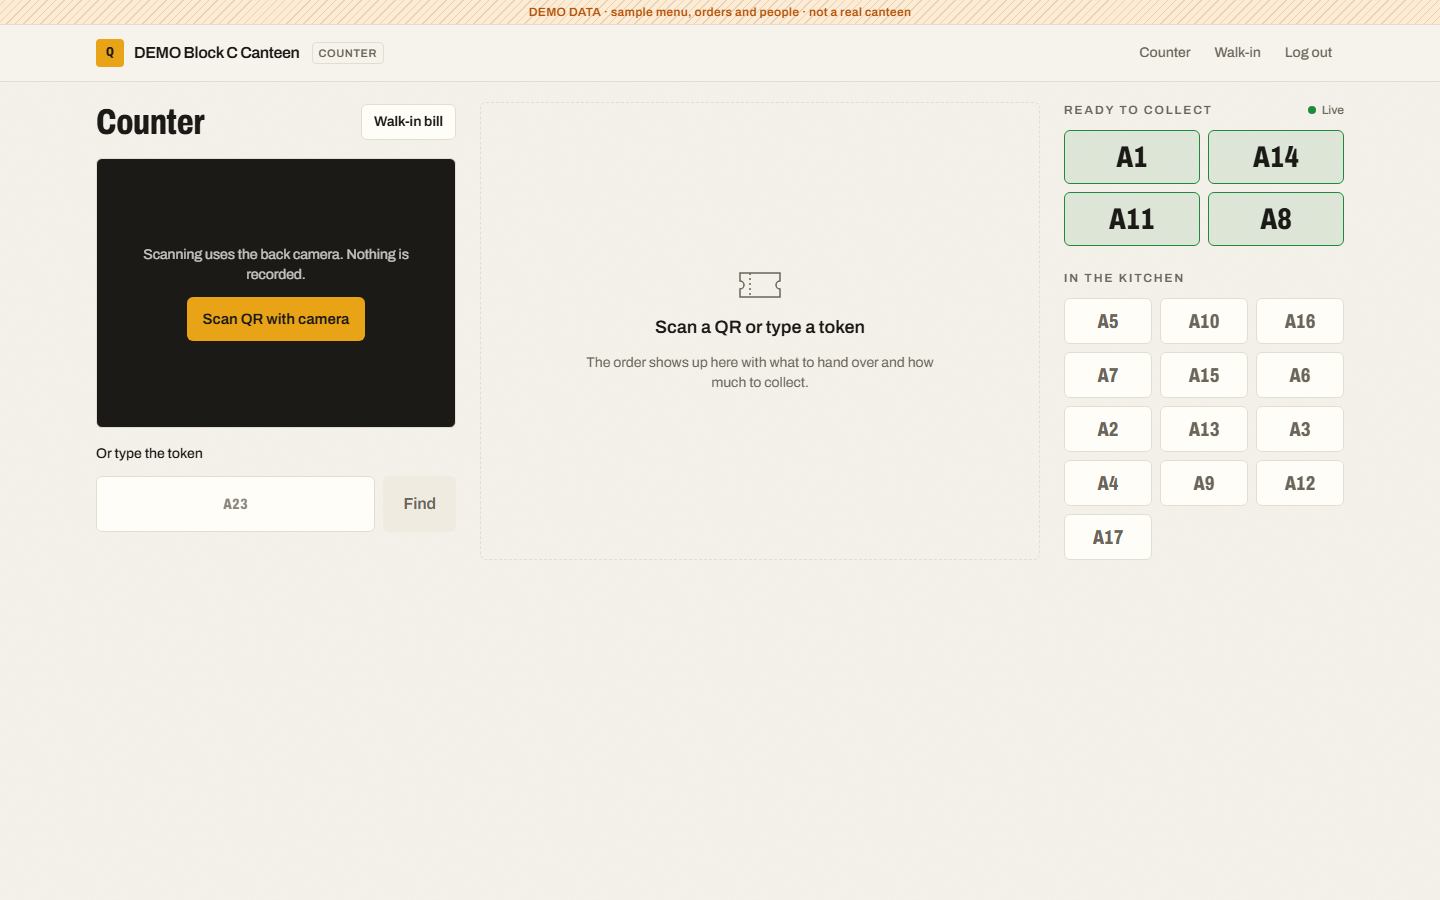
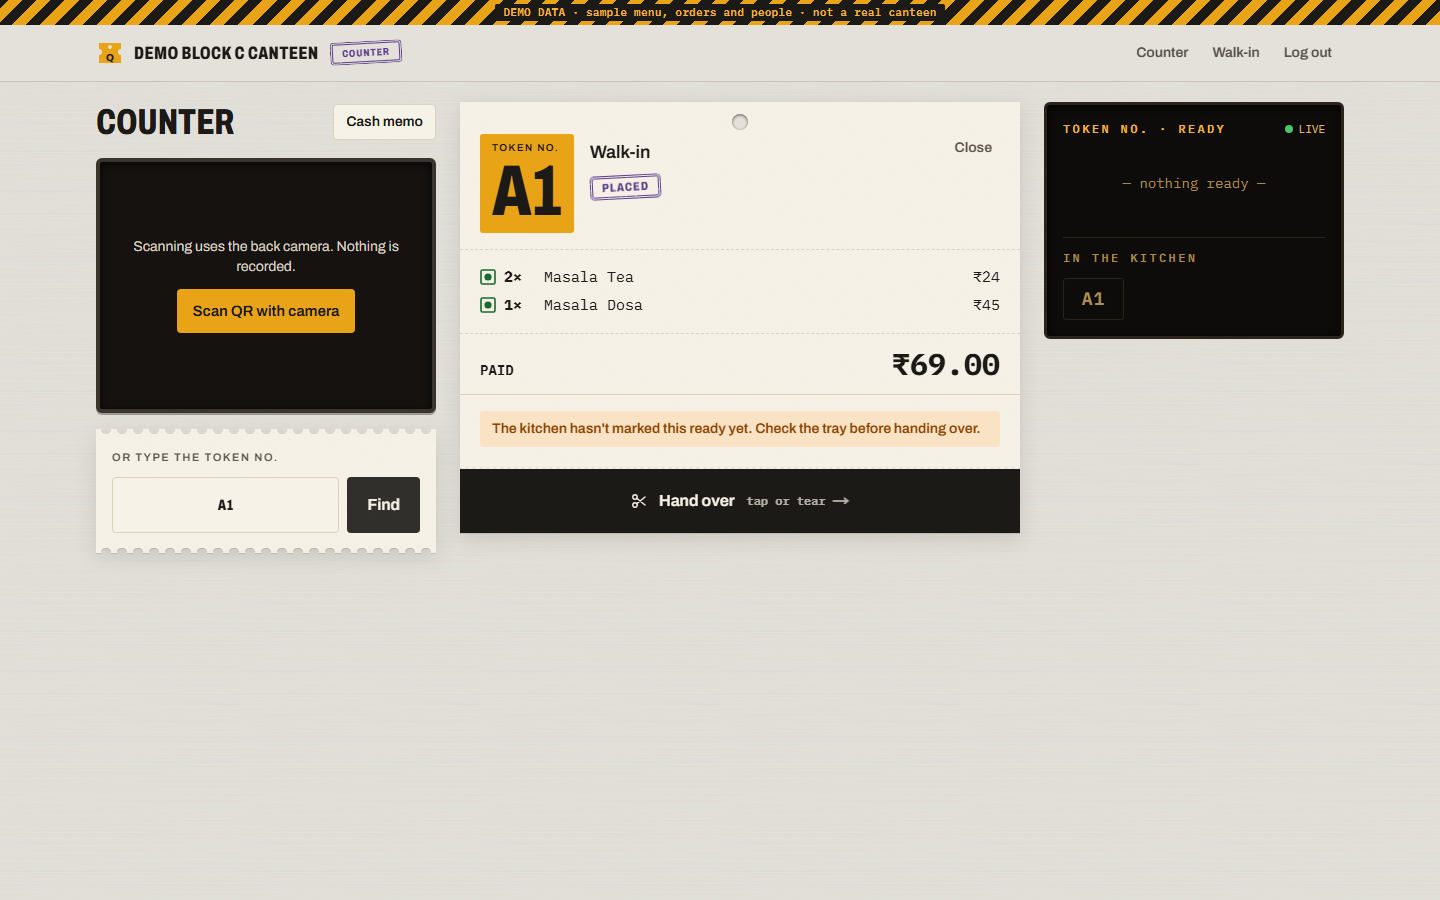
docs: refresh screenshots for the new counter design

Changed region(s): [[0.0, 0.0, 1.0, 0.6533], [0.4688, 0.0933, 0.5625, 0.1244], [0.6562, 0.0933, 0.6875, 0.1244]]

diff --git a/README.md b/README.md
@@ -21,17 +21,17 @@ QueueLess fixes both sides:
 
 All screenshots use the clearly labelled DEMO canteen from `npm run db:seed`.
 
-| Student menu (phone) | Pickup slots | Token slip |
+| Rate card (phone) | Token slip | Order history |
 |---|---|---|
-| ![Student menu with live stock](docs/student-menu.png) | ![Pickup slot picker with fill meters](docs/slot-picker.png) | ![Token slip with QR and status](docs/token-slip.png) |
+| ![Rate card with a tear-off add stub per item and the bill pinned to the bottom](docs/student-menu.png) | ![Token slip with the token number, a COLLECTED stamp and the status rail](docs/token-slip.png) | ![Past orders as tickets on a spike](docs/order-history.png) |
 
-| Kitchen board | Counter |
+| Kitchen rail | Counter |
 |---|---|
-| ![Kitchen board grouped by pickup slot](docs/kitchen-board.png) | ![Counter with QR scan, token entry and ready queue](docs/counter.png) |
+| ![Kitchen tickets clipped to a rail, readable from across the kitchen](docs/kitchen-board.png) | ![Counter with QR scan, token entry, the found ticket and the ready board](docs/counter.png) |
 
-| Owner dashboard | 80 mm thermal invoice |
+| Owner day book | 80 mm thermal invoice |
 |---|---|
-| ![Owner dashboard with sales, profit and usage](docs/owner-dashboard.jpg) | ![Thermal tax invoice with GST by rate and UPI QR](docs/invoice-thermal.png) |
+| ![Owner day book with sales, profit and a Z-report receipt](docs/owner-dashboard.png) | ![Thermal tax invoice with GST by rate and UPI QR](docs/invoice-thermal.png) |
 
 ## Features
 
@@ -80,7 +80,7 @@ All screenshots use the clearly labelled DEMO canteen from `npm run db:seed`.
 ## Tech stack
 
 - **Next.js 16** (App Router, Server Actions, Route Handlers) + **TypeScript** (strict)
-- **Tailwind CSS v4** with custom design tokens; Archivo via `next/font`
+- **Tailwind CSS v4** with custom design tokens; Archivo, with IBM Plex Mono for receipt figures, via `next/font`
 - **PostgreSQL** on Neon + **Prisma 7** (driver adapter `@prisma/adapter-pg`) with SQL migrations and CHECK constraints
 - **zod** for validating every input on the server
 - **bcryptjs** passwords, httpOnly session cookies (hashed session ids in the DB)
